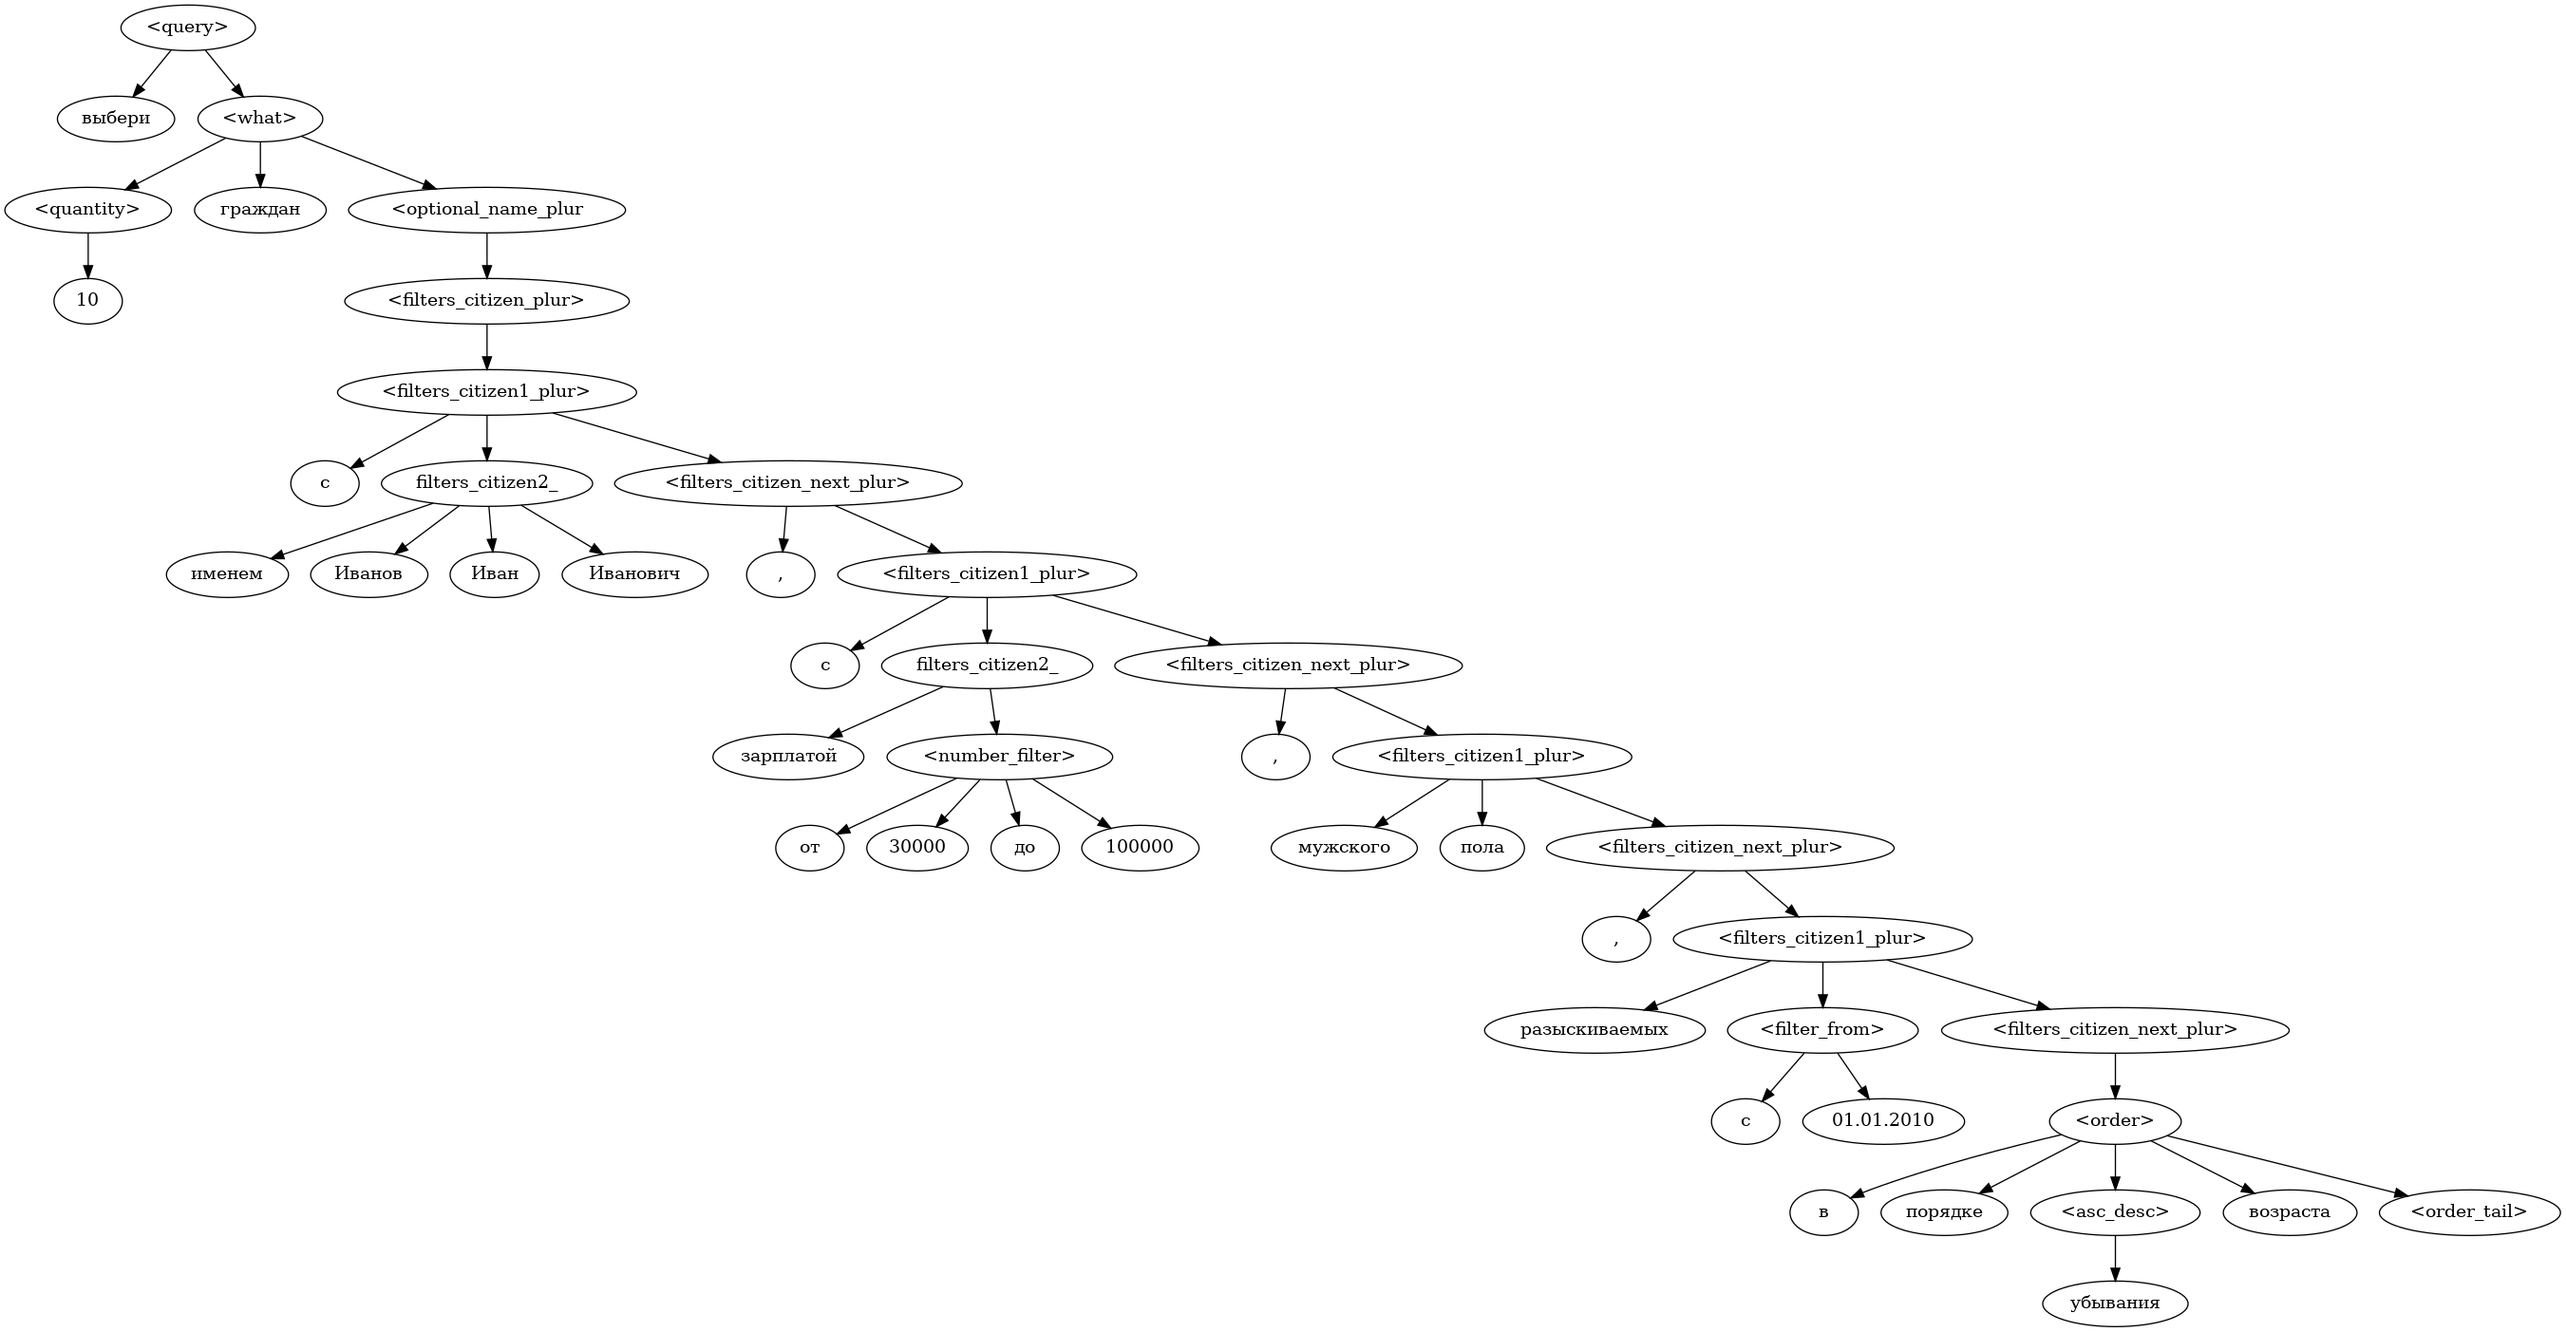
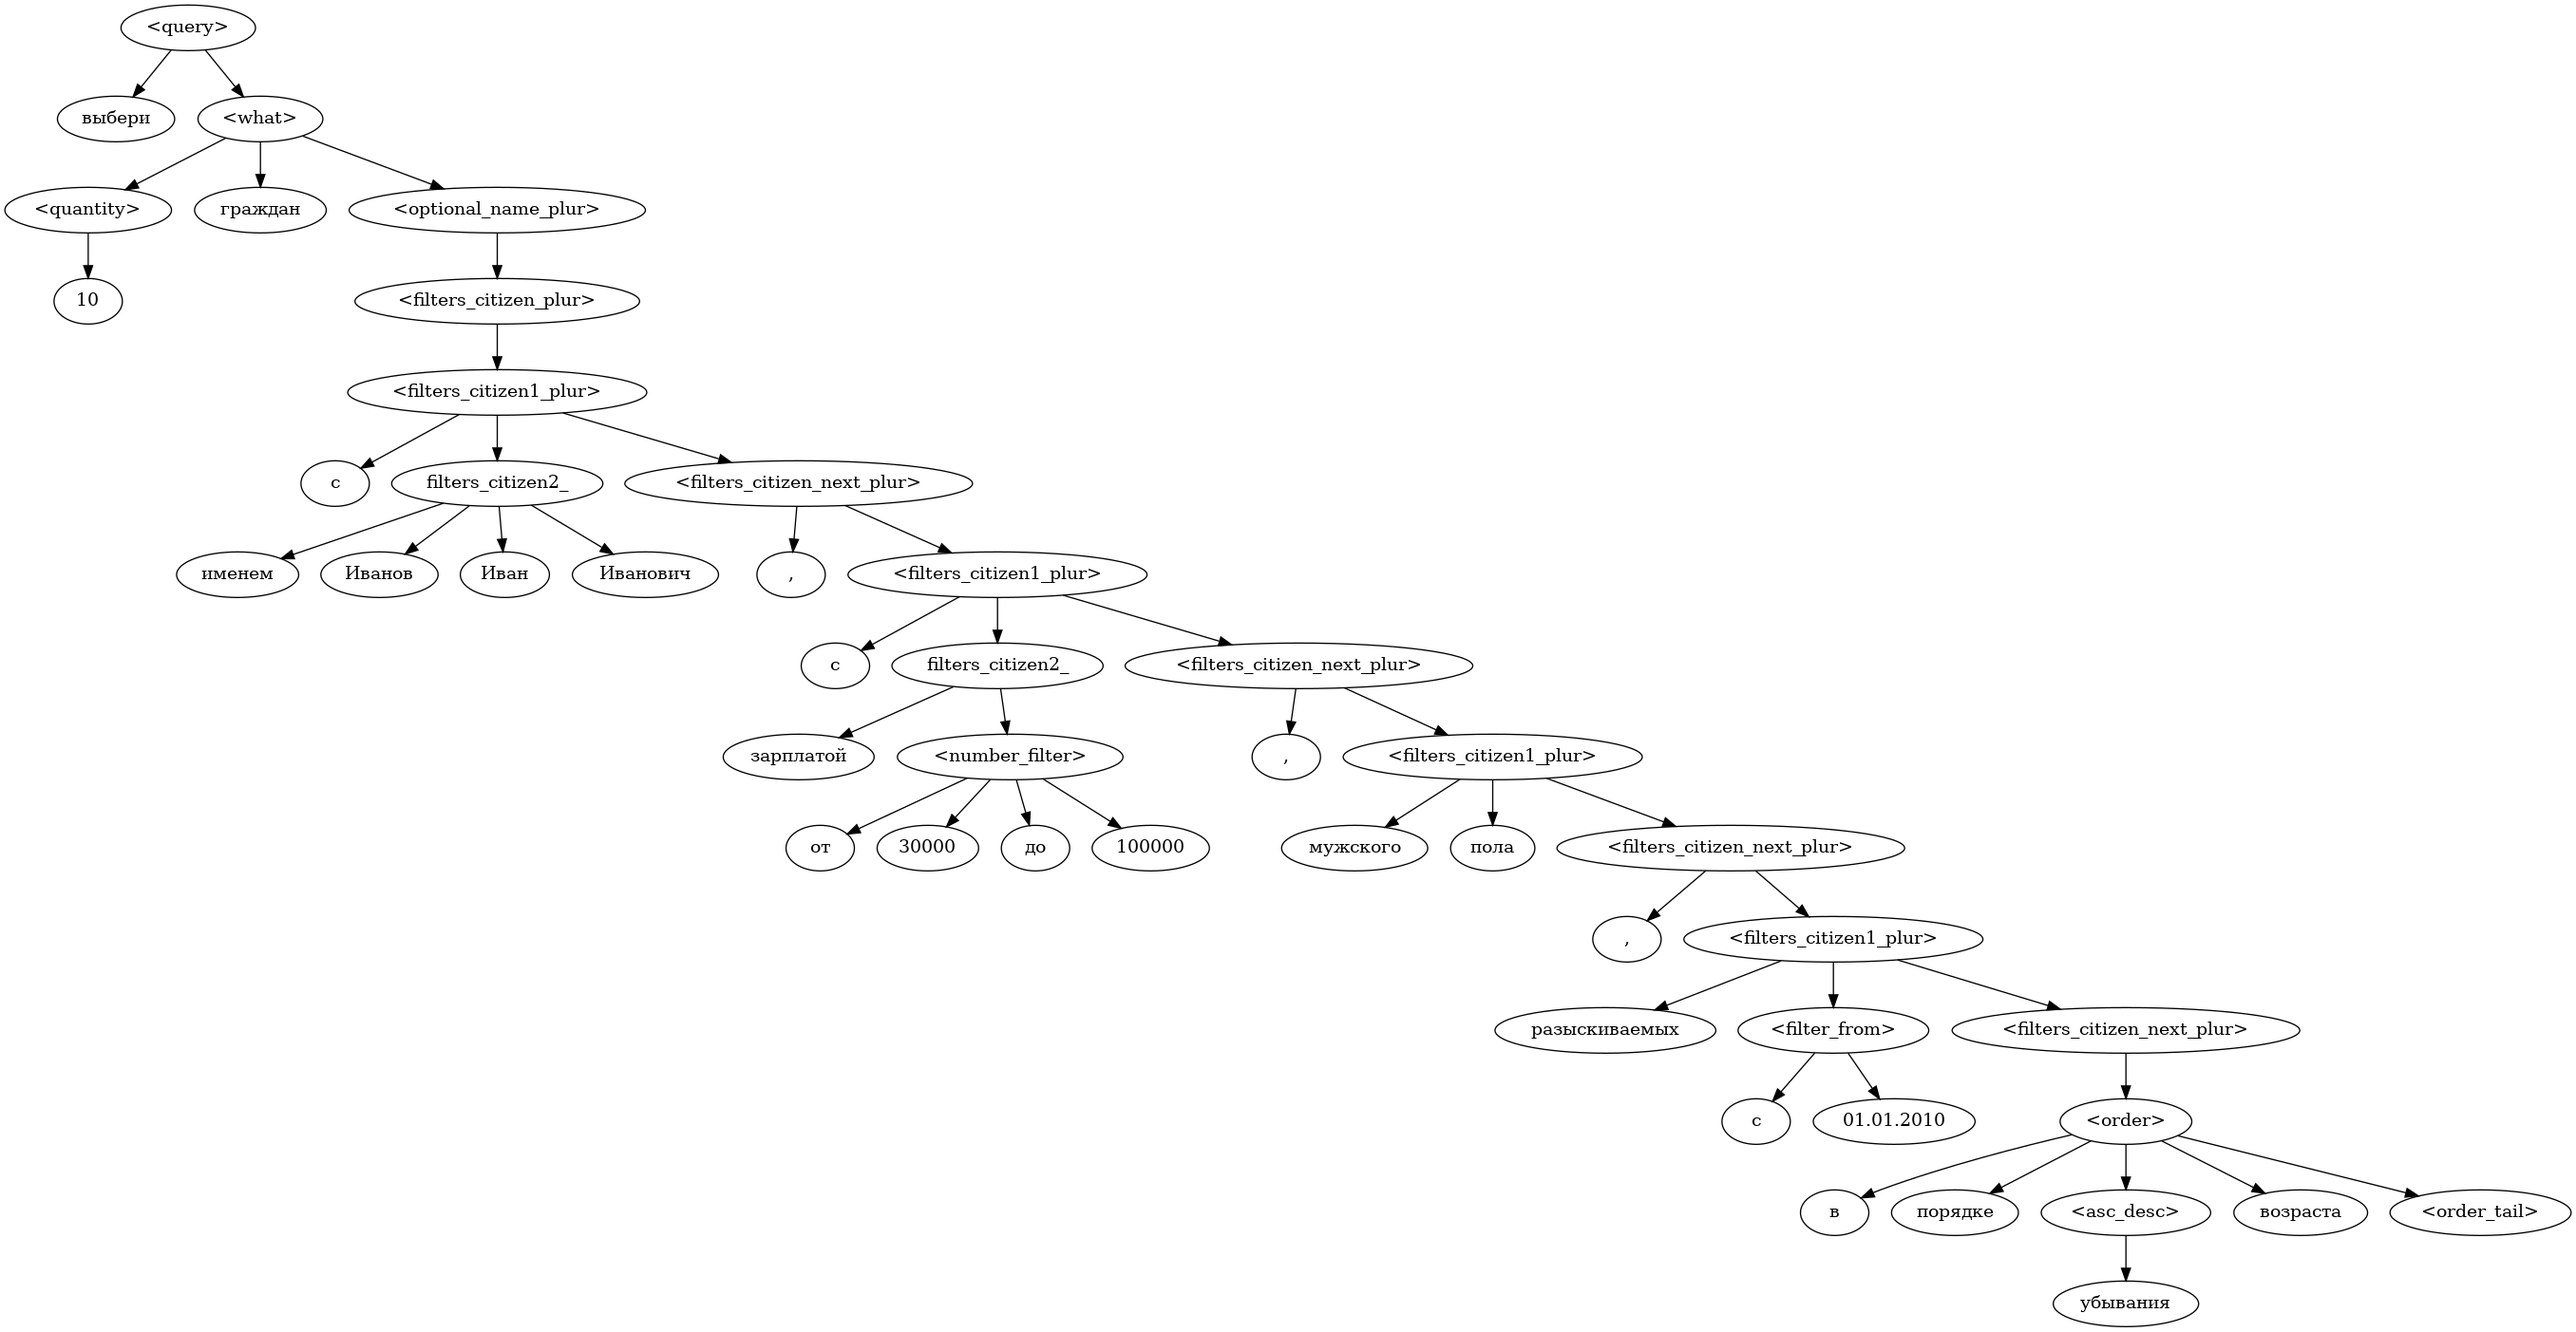
fix

diff --git a/main.py b/main.py
@@ -140,7 +140,7 @@ def parse_what():
     raise Exception(f"Failed to match <what>\nGot {cur_token}")
 
 def parse_optional_name(gender):
-    name = f"<optional_name_{gender}"
+    name = f"<optional_name_{gender}>"
     if is_token(tag="Surn"):
         t1 = expect_token(tag="Surn")
         t2 = parse_optional_name1(gender)
